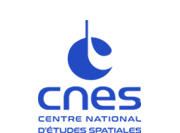
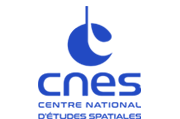
finish application mobile page

Changed region(s): [[0.1944, 0.1765, 0.8056, 0.8319], [0.1944, 0.8571, 0.8056, 0.9832], [0.4722, 0.0504, 0.5, 0.1513]]

diff --git a/app/assets/stylesheets/societes.scss b/app/assets/stylesheets/societes.scss
@@ -43,34 +43,35 @@ padding-bottom: 20px;
     justify-content: center;
 }
 
+
+
 .img_gs1{
     margin-left: 30px;
     margin-right: 30px;
     width: 90px; 
     height: 90px;
-    border: 2px solid red
-
 
 }
 
 .img_unifab{
-    margin-top: 25px;
+    margin-top: 20px;
     margin-left: 30px;
     margin-right: 30px;
     width:150px;
-    height:50px;
-    border: 2px solid red
+    height:40px;
+}
 
+.col_3{
+display: flex;
+justify-content: center
 }
 
 .img_cnes{
-    margin-top: 10px;
     margin-left: 30px;
     margin-right: 30px;
-    width:90px; 
-    height:90px;
-    border: 2px solid red
-
+    width:85px; 
+    height:85px;
+    
 
 }
 
@@ -79,18 +80,13 @@ padding-bottom: 20px;
     margin-left: 30px;
     margin-right: 30px;
     width:150px;
-    height:40px;
-    border: 2px solid red
-
-
-
+    height:30px;
 }
 
 .img_fondation_chirac{
-    margin-top: 30px;
+    margin-top: 25px;
     margin-left: 30px;
     margin-right: 30px;
     width:150px;
-    height:40px;
-    border: 2px solid red
+    height:30px;
 }

diff --git a/app/assets/stylesheets/applicationmobile.scss b/app/assets/stylesheets/applicationmobile.scss
@@ -3,23 +3,27 @@
     display: flex;
     justify-content: center;
     height: 600px;
+    
 }
 
 .col_1_1{
     width: 50%;
-    margin-top: 5%;
-    margin-right:5px;
-    margin-bottom:5em;
+    margin-top: 150px;
+    margin-right:10%;
+    margin-bottom:150px;
     margin-left:10%;
+    
+
     
 }
 
 .img_mobile{
-    width: 50%;
+    width: auto;
+    height: 70%;
     margin-top: 5%;
     margin-right:10%;
     margin-bottom:5em;
     margin-left:0;
-   
 
 }
+
